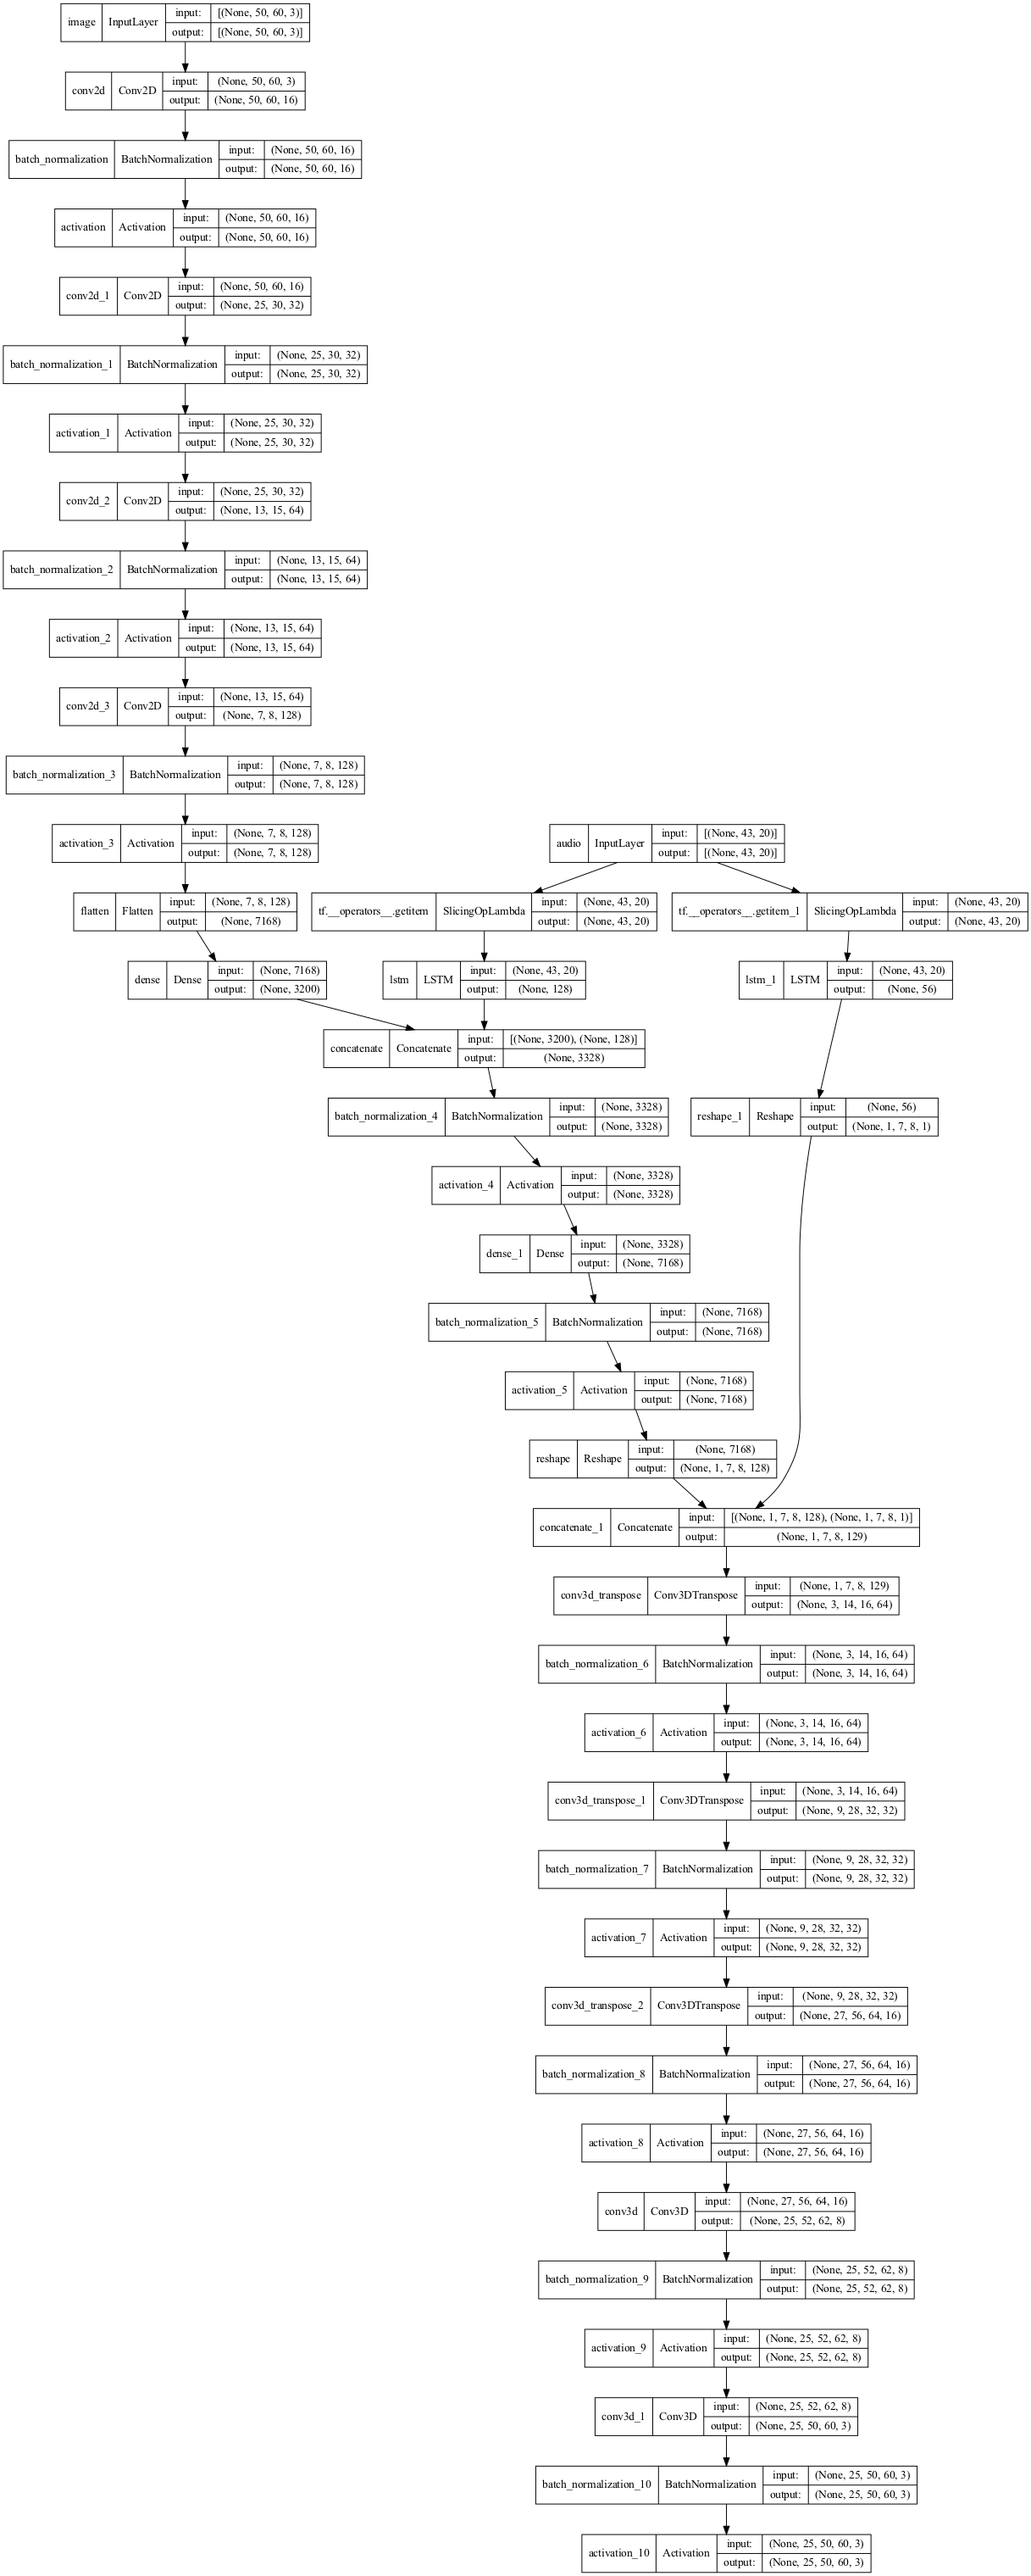
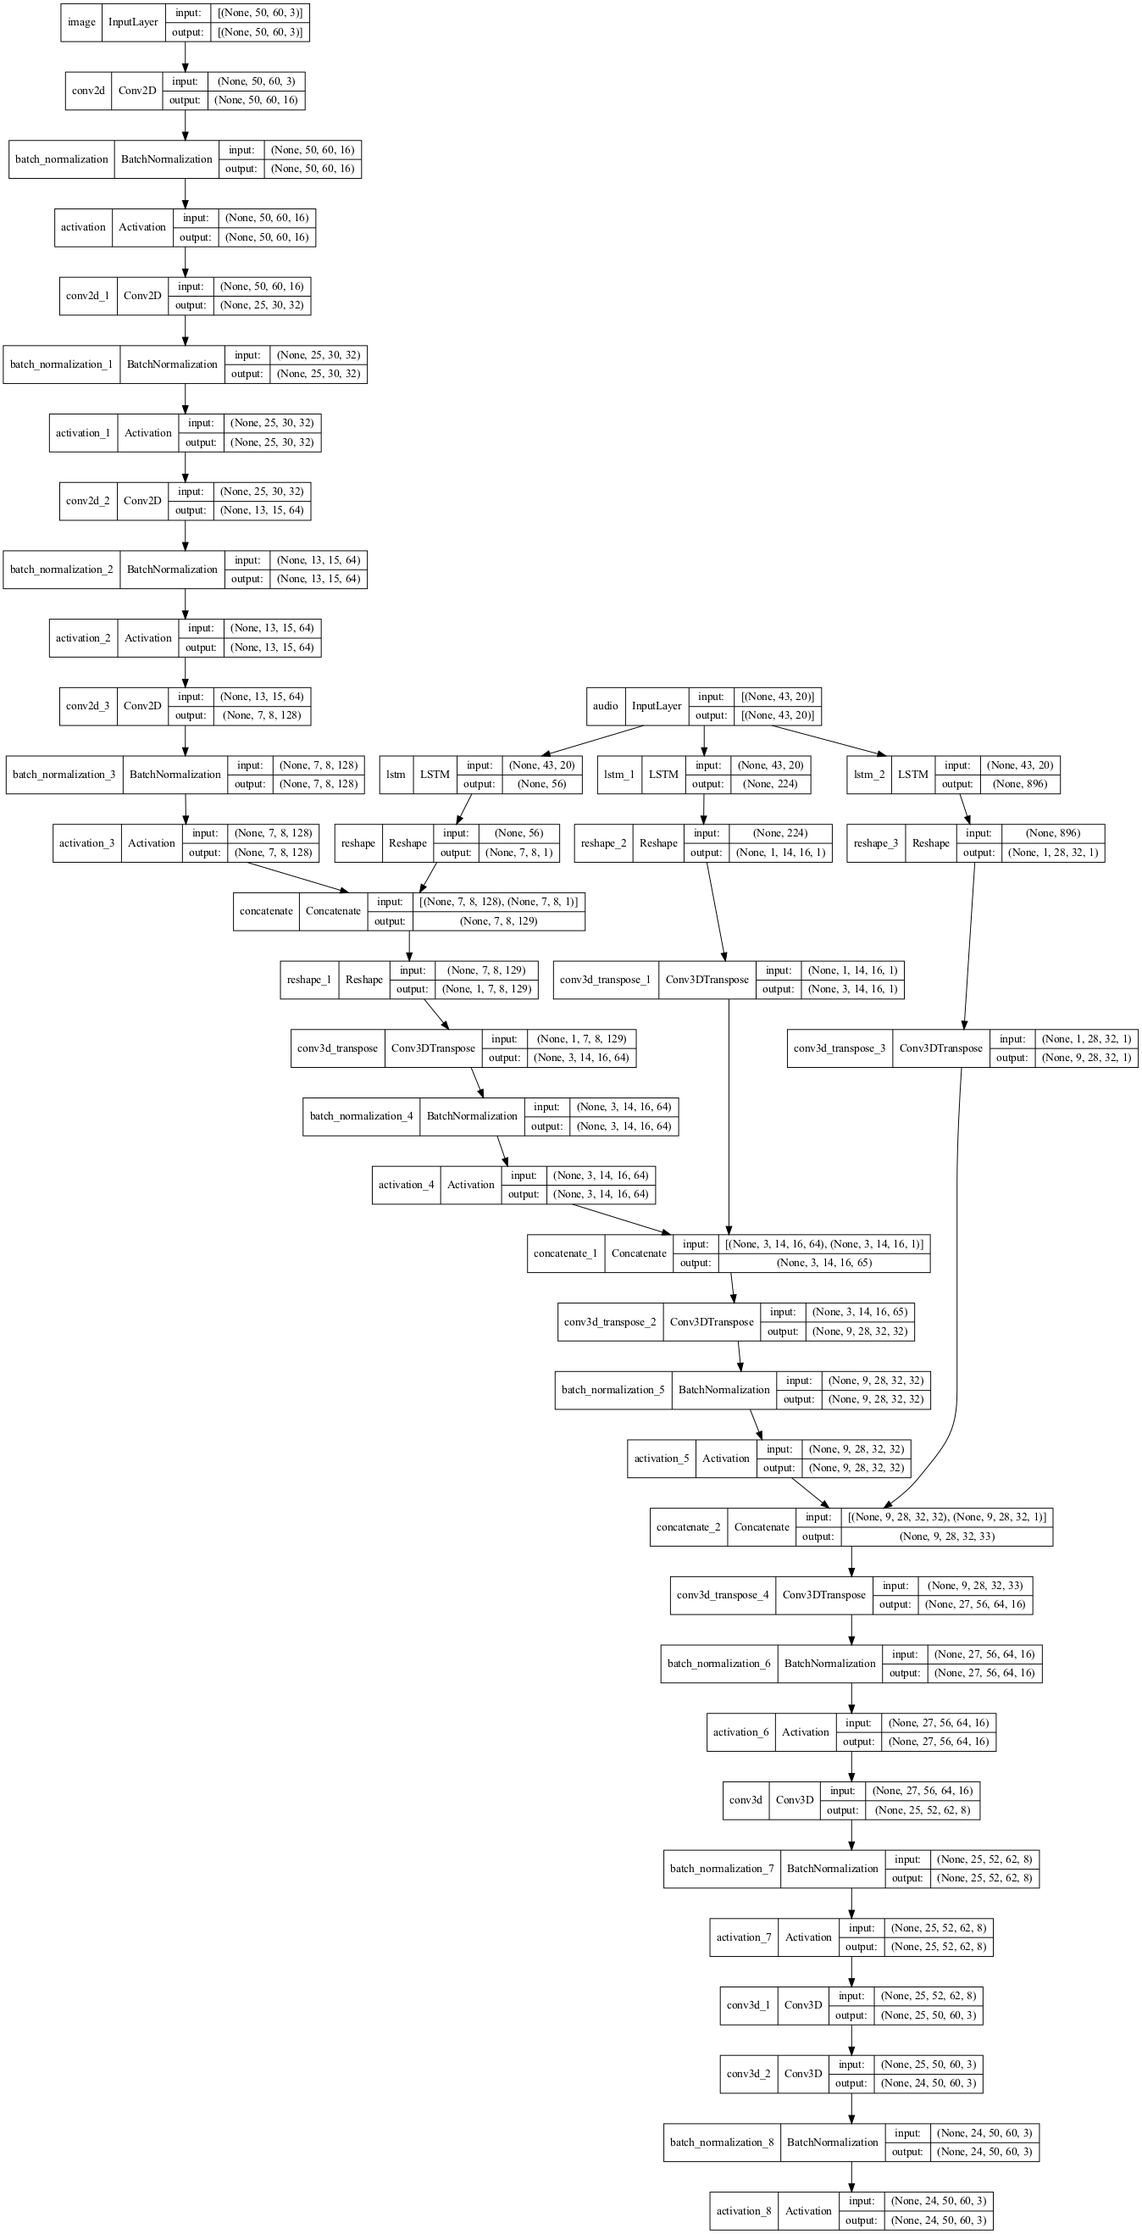
model fix

Changed region(s): [[0.0, 0.0, 0.9992, 1.0], [0.3122, 0.4977, 0.3435, 0.5288]]

diff --git a/training/model.py b/training/model.py
@@ -39,34 +39,28 @@ def create_model(save_plot=False):
     x = lr.BatchNormalization()(x)
     x = lr.Activation(ACT)(x)
 
-    inner_shape = [1] + x.shape[1:]
-
-    x = lr.Flatten()(x)
-    flatten_len = x.shape[1]
-    z = lr.LSTM(128)(au_inputs[:-1])
-
-    x = lr.Dense(3200)(x)
+    z = lr.LSTM(x.shape[1] * x.shape[2])(au_inputs)
+    z = lr.Reshape(x.shape[1:-1] + [1])(z)
     x = lr.Concatenate(-1)([x, z])
-
-    x = lr.BatchNormalization()(x)
-    x = lr.Activation(ACT)(x)
-    x = lr.Dense(flatten_len)(x)
-    x = lr.BatchNormalization()(x)
-    x = lr.Activation(ACT)(x)
-
-    x = lr.Reshape(inner_shape)(x)
-
-    z = lr.LSTM(inner_shape[1] * inner_shape[2])(au_inputs[:-1])
-    z = lr.Reshape(inner_shape[:3] + [1])(z)
-    x = lr.Concatenate(-1)([x, z])
+    x = lr.Reshape([1] + x.shape[1:])(x)
 
     x = lr.Conv3DTranspose(64, 3, strides=(3, 2, 2), padding='same')(x)
     x = lr.BatchNormalization()(x)
     x = lr.Activation(ACT)(x)
 
+    z = lr.LSTM(x.shape[2] * x.shape[3])(au_inputs)
+    z = lr.Reshape([1] + x.shape[2:-1] + [1])(z)
+    z = lr.Conv3DTranspose(1, x.shape[1], strides=(x.shape[1], 1, 1), padding='same')(z)
+    x = lr.Concatenate(-1)([x, z])
+
     x = lr.Conv3DTranspose(32, 3, strides=(3, 2, 2), padding='same')(x)
     x = lr.BatchNormalization()(x)
     x = lr.Activation(ACT)(x)
+
+    z = lr.LSTM(x.shape[2] * x.shape[3])(au_inputs)
+    z = lr.Reshape([1] + x.shape[2:-1] + [1])(z)
+    z = lr.Conv3DTranspose(1, x.shape[1], strides=(x.shape[1], 1, 1), padding='same')(z)
+    x = lr.Concatenate(-1)([x, z])
 
     x = lr.Conv3DTranspose(16, 3, strides=(3, 2, 2), padding='same')(x)
     x = lr.BatchNormalization()(x)
@@ -76,14 +70,14 @@ def create_model(save_plot=False):
     x = lr.BatchNormalization()(x)
     x = lr.Activation(ACT)(x)
 
-    x = lr.Conv3D(3, (1, 3, 3), padding='valid')(x)
+    x = lr.Conv3D(3, (1, 3, 3), padding='valid')(x)  # dilation_rate=(1, 2, 2) is not working
+    x = lr.Conv3D(3, (2, 1, 1), padding='valid')(x)
     x = lr.BatchNormalization()(x)
     outputs = lr.Activation('sigmoid')(x)
 
-    model = tf.keras.Model(
-        inputs={'image': im_inputs, 'audio': au_inputs},
-        outputs=outputs
-    )
+    model = tf.keras.Model(inputs={'image': im_inputs,
+                                   'audio': au_inputs},
+                           outputs=outputs)
 
     if save_plot:
         plot_model(model, dpi=70, show_shapes=True)
